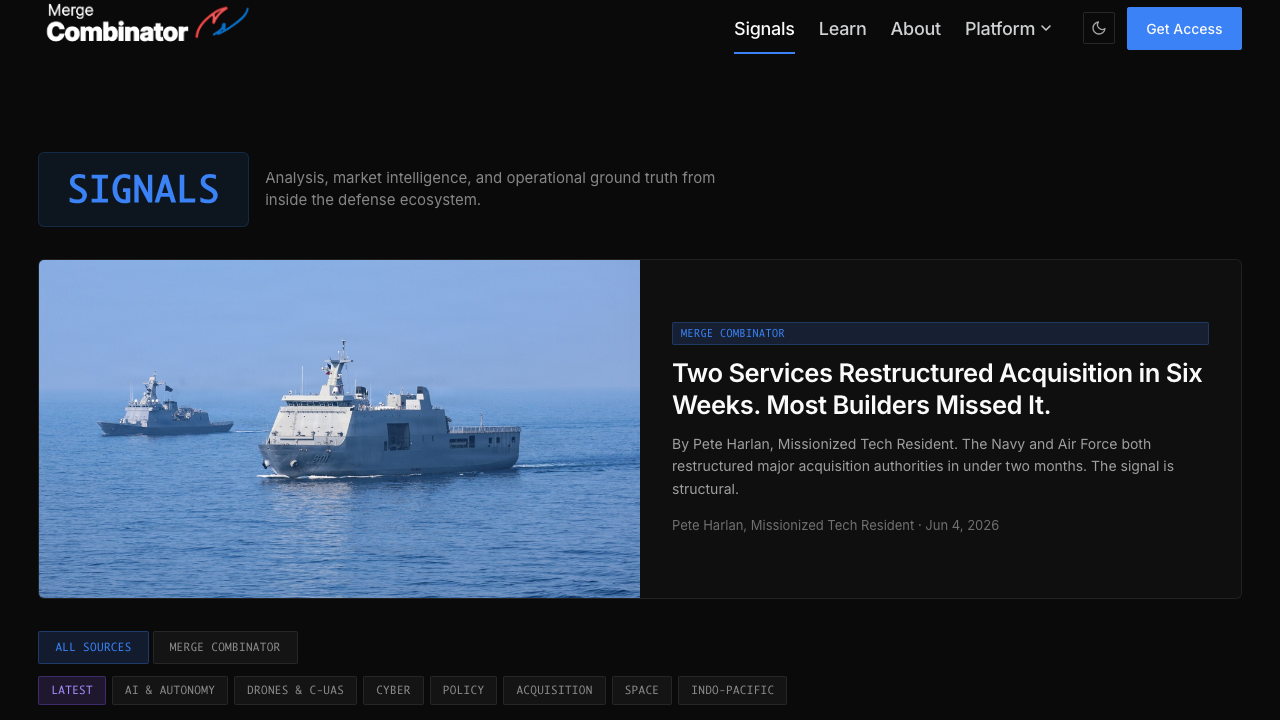
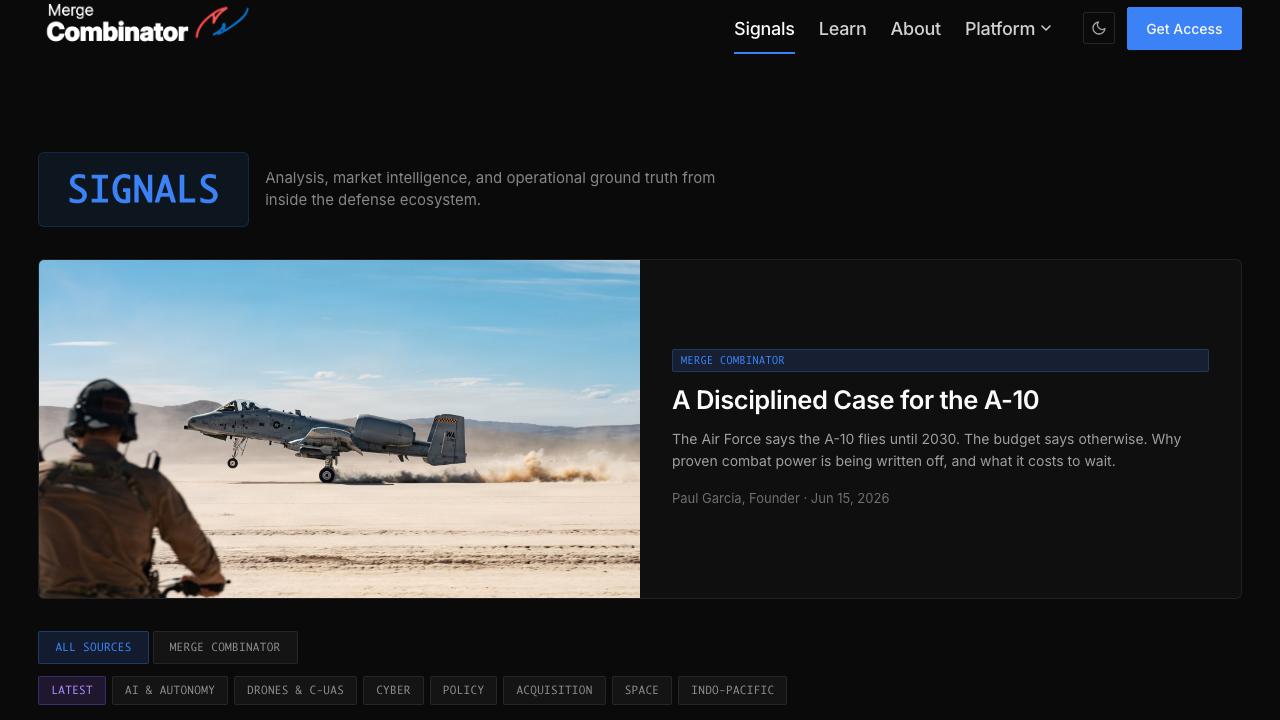
fix(signals): improve A-10 article readability + UX
- Fix button text color: `.btn` inside article content was unreadable
  (blue text on blue background). Add :not(.btn) to content anchor rules
  so buttons keep their own white text.
- Improve article lead: add inline offramp to TWZ immediately after hero
  image so readers who want the full case can exit early. Tighten subtitle.
- Remove byline from signals.json excerpt (redundant with author field).
- Update visual test snapshot to match new article layout.

Changed region(s): [[0.0312, 0.3972, 0.9688, 0.8556], [0.0938, 0.3361, 0.5, 0.4583]]

diff --git a/styles.css b/styles.css
@@ -4802,13 +4802,13 @@ h4, .h4 {
   color: var(--black);
 }
 
-.blog-article__content a {
+.blog-article__content a:not(.btn) {
   color: var(--blue);
   text-decoration: underline;
   text-underline-offset: 2px;
 }
 
-.blog-article__content a:hover {
+.blog-article__content a:not(.btn):hover {
   color: var(--black);
 }
 
@@ -5686,11 +5686,11 @@ h4, .h4 {
   color: var(--white);
 }
 
-.blog-article__content a {
+.blog-article__content a:not(.btn) {
   color: var(--blue-light);
 }
 
-.blog-article__content a:hover {
+.blog-article__content a:not(.btn):hover {
   color: var(--white);
 }
 

diff --git a/signals/disciplined-case-for-the-a-10.html b/signals/disciplined-case-for-the-a-10.html
@@ -76,7 +76,7 @@
           </div>
         </div>
         <h1 class="blog-article__title">A Disciplined Case for the A-10</h1>
-        <p class="blog-article__subtitle">The Air Force says the A-10 flies until 2030. The budget says otherwise. I made the full case in The War Zone. Here is why it matters.</p>
+        <p class="blog-article__subtitle">The Air Force says the A-10 flies until 2030. The budget says otherwise. Why proven combat power is being written off, and what it costs to wait.</p>
         <div class="blog-article__byline">
           <span class="blog-article__author">Paul Garcia, Founder</span>
           <span class="blog-article__divider">&bull;</span>
@@ -96,6 +96,10 @@
 
     <div class="blog-article__content">
       <div class="container container--narrow">
+
+        <p class="blog-article__lede-note" style="font-size: 14px; color: rgba(255,255,255,0.55); border-left: 2px solid var(--blue); padding: 4px 0 4px 16px; margin: 0 0 32px;">
+          This first ran in <a href="https://www.twz.com/air/a-disciplined-case-for-the-a-10-the-air-force-wont-make" target="_blank" rel="noopener">The War Zone</a> &mdash; read the full case there. TLDR below.
+        </p>
 
         <p>The Air Force says the A-10 flies until 2030. The budget says otherwise.</p>
 